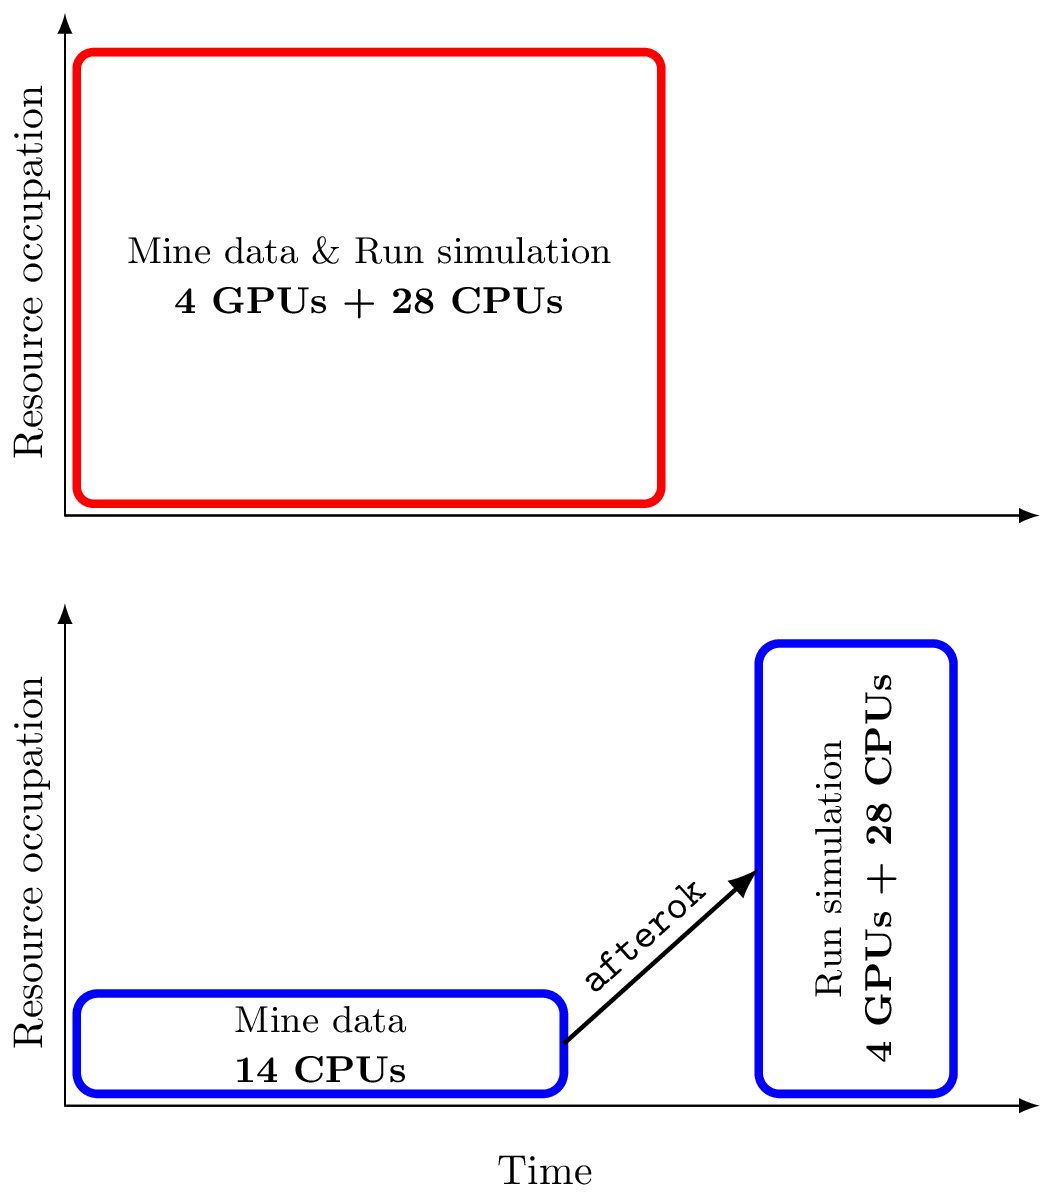
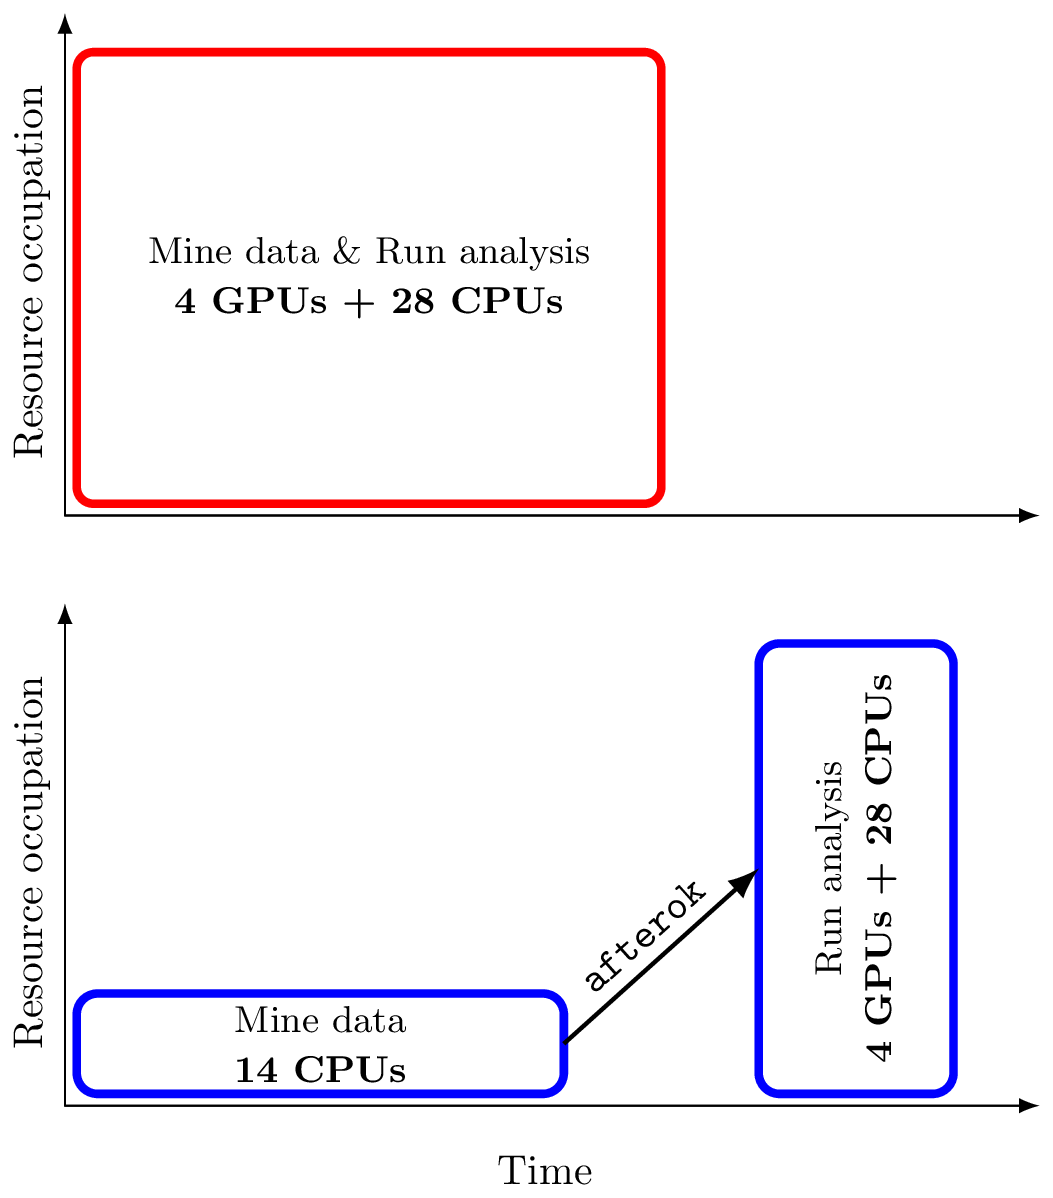
[REFACTOR:jobs/dependencies] Improve description of jobs in diagram

Changed region(s): [[0.1216, 0.1853, 0.5774, 0.2471], [0.7597, 0.6177, 0.8205, 0.8339]]

diff --git a/docs/jobs/images/sources/job_dependencies.tex b/docs/jobs/images/sources/job_dependencies.tex
@@ -44,7 +44,7 @@
         -- (\x{X_1}, \y{Y_1})
         -- (\x{X_1}, \y{X_1})
         -| cycle
-      ($(\x{orig_1}, \y{orig_1})!0.5!(\x{X_1}, \y{Y_1})$) node[align=center] {\small Mine data \& Run simulation\\ \small \bfseries 4 GPUs + 28 CPUs}
+      ($(\x{orig_1}, \y{orig_1})!0.5!(\x{X_1}, \y{Y_1})$) node[align=center] {\small Mine data \& Run analysis\\ \small \bfseries 4 GPUs + 28 CPUs}
   ;
 
   \path[draw=blue, line width=2pt, rounded corners=5pt]
@@ -70,7 +70,7 @@
         -- (\x{X_0_compute}, \y{Y_0_compute})
         -- (\x{X_0_compute}, \y{X_0_compute})
         -| cycle
-      ($(\x{orig_0_compute}, \y{orig_0_compute})!0.5!(\x{X_0_compute}, \y{Y_0_compute})$) node[align=center,rotate=90] {\small Run simulation\\ \small \bfseries 4 GPUs + 28 CPUs}
+      ($(\x{orig_0_compute}, \y{orig_0_compute})!0.5!(\x{X_0_compute}, \y{Y_0_compute})$) node[align=center,rotate=90] {\small Run analysis\\ \small \bfseries 4 GPUs + 28 CPUs}
       ($(\x{orig_0}, \y{orig_0})!0.5!(\x{X_0_fetch}, \y{Y_0_fetch})$) node[align=center] {\small Mine data\\ \small \bfseries 14 CPUs}
   ;
 

diff --git a/docs/jobs/dependencies.md b/docs/jobs/dependencies.md
@@ -9,7 +9,7 @@ If both stage run on the GPU server, the GPUs will be idle during the data fetch
 
 <figure markdown="span">
     ![Utilizing resources efficiently with job dependencies](images/job_dependencies.png){width="600" style="display: block; margin: 0 auto"}
-    <figcaption>Utilizing resources efficiently with inter-depended jobs and job dependencies.</figcaption>
+    <figcaption>Utilizing resources efficiently with inter-depended jobs and job dependencies. Separating jobs results in better utilization of occupied hardware.</figcaption>
 </figure>
 
 The solution is to split the job into 2 smaller jobs,
